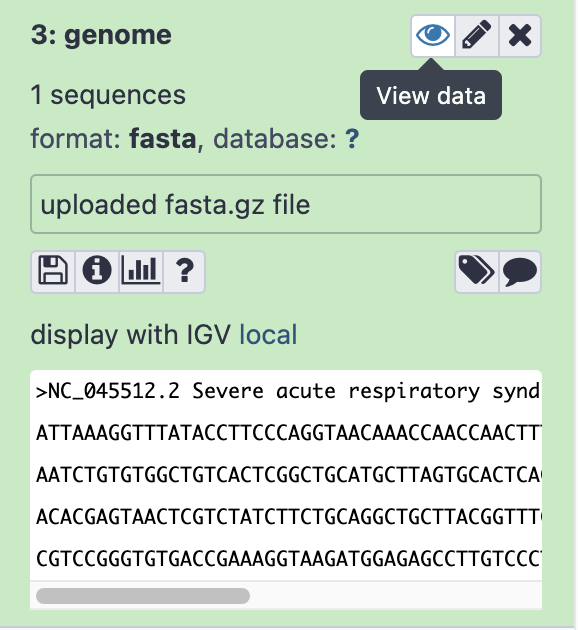
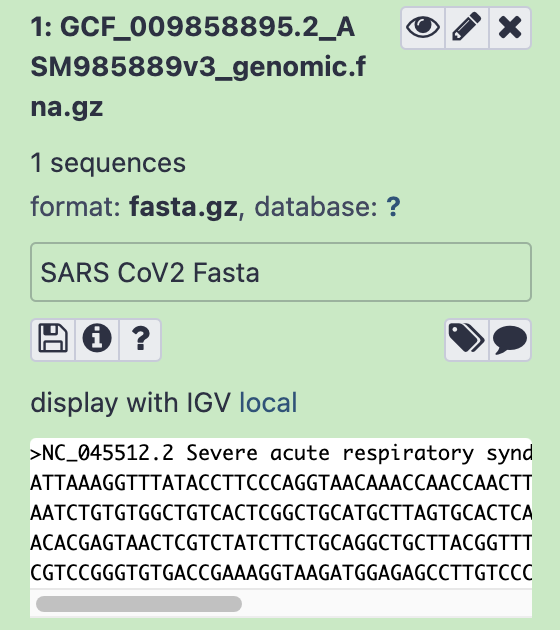
push

diff --git a/lessons/01_Obtain_Data.md b/lessons/01_Obtain_Data.md
@@ -30,62 +30,30 @@ The [US National Center for Biotechnology Information](https://www.ncbi.nlm.nih.
 Our dataset is a SARS-CoV-2 Next Generation Sequencing sample. In this section we'll obtain our reference data and our NGS reads in preparation for alignment.
 
 
-### Import the SARS-CoV2 genome and gene annotation from NCBI
-- On the left hand side tool panel, click the **Upload icon**
+### Import the SARS-CoV2 genome and gene annotation from a Shared Data library on our server
+- On the top menu bar, click **Shared Data** and select **Data Libraries**
+- Select **sars-cov-2 genome and annotation**
+- Select both files by checking the box next to Name (or checking box next two both files)
+- Just under the top menu bar, next to the search bar, click **Export to History** and select **As Datasets**
+- In the **Import into History** keep the current Selected History and click **Import**
+- Click on **Galaxy Tufts** on the top left to go back to the main panel
 
-<img src="../img/data/upload.png" width="200">
-
-- Click **Paste/Fetch data**
-
-- Paste the following URLs in the grey box:
-
-```
-https://ftp.ncbi.nlm.nih.gov/genomes/all/GCF/009/858/895/GCF_009858895.2_ASM985889v3/GCF_009858895.2_ASM985889v3_genomic.fna.gz
-https://ftp.ncbi.nlm.nih.gov/genomes/all/GCF/009/858/895/GCF_009858895.2_ASM985889v3/GCF_009858895.2_ASM985889v3_genomic.gff.gz
-```
-
-- This is what you should see:
-
-<img src="../img/data/upload_final.png" width="700">
-
-- Click **Start** followed by **Close**
-
-- Two jobs will appear in the History, Grey (pending) -> Orange (running) -> Green (complete).
-
-- Rename the genome and give the file the correct Datatype. A datatype in Galaxy determines how tools will handle Datasets.
-  - On the green box for the file ending in fna.gz, click on the **pencil icon**
-  - replacing the URL in the name with "genome"
-  - clicking **Save**
-  - Click on the **Datatypes** tab, and under **New Type** type fasta (Note: careful not to select the datatype fasta.gz)
-  - Click **Change Datatype**
-
-- Rename the genes and give the file the correct Datatype
-  - On the green box for the file ending in gff.gz, click on the **pencil icon**
-  - Replacing the URL in the name with "genes"
-  - clicking **Save**
-  - Click on the **Datatypes** tab, and under **New Type** type gff3 and select it from the dropdown menu (Note: careful not to select the datatype gff3.gz)
-  - Click **Change Datatype**
-
-- Here is what you should see in your History
-
-<img src="../img/data/history_1.png" width="200">
-
+You’ll see two datasets in your history. 
+<p align="center">
+<img src="../img/data/import_from_shared.png" width="200">
+</p>
 
 ### Fasta Format
-The virus genome is in Fasta format.
-Fasta format has two parts, a sequence identifier preceeded by a ">" symbol, followed by the sequence on subsequent lines.
-You can see a preview of it by clicking on the **genome** dataset in the History panel.
+The virus genome is in gzipped fasta format with the extension **fna.gz**. Fasta format has two parts, a sequence identifier preceeded by a ">" symbol, followed by the sequence on subsequent lines. You can see a preview of it by clicking on the **GCF_009858895.2_ASM985889v3_genomic.fna.gz** dataset in the History panel.
 
 <img src="../img/data/genome_view_2.png" width="900">
 
 ### GFF Format
 The Generic Feature Format (GFF) file tells us where features such as genes and exons are located in the reference genome.
-To preview the GFF file, click on the  <img src="../img/eye.png" width="15"> on the **genes** dataset.
+To preview the GFF file, click on the  <img src="../img/eye.png" width="15"> on the **GCF_009858895.2_ASM985889v3_genomic.gff** dataset.
 Note that we must always be sure that our gene information and genome come from the same source.
 
 <img src="../img/data/gff_view.png" width="900">
-
-
 
 ## Step 3: Import NGS sequencing data from Sequence Read Archive
 
